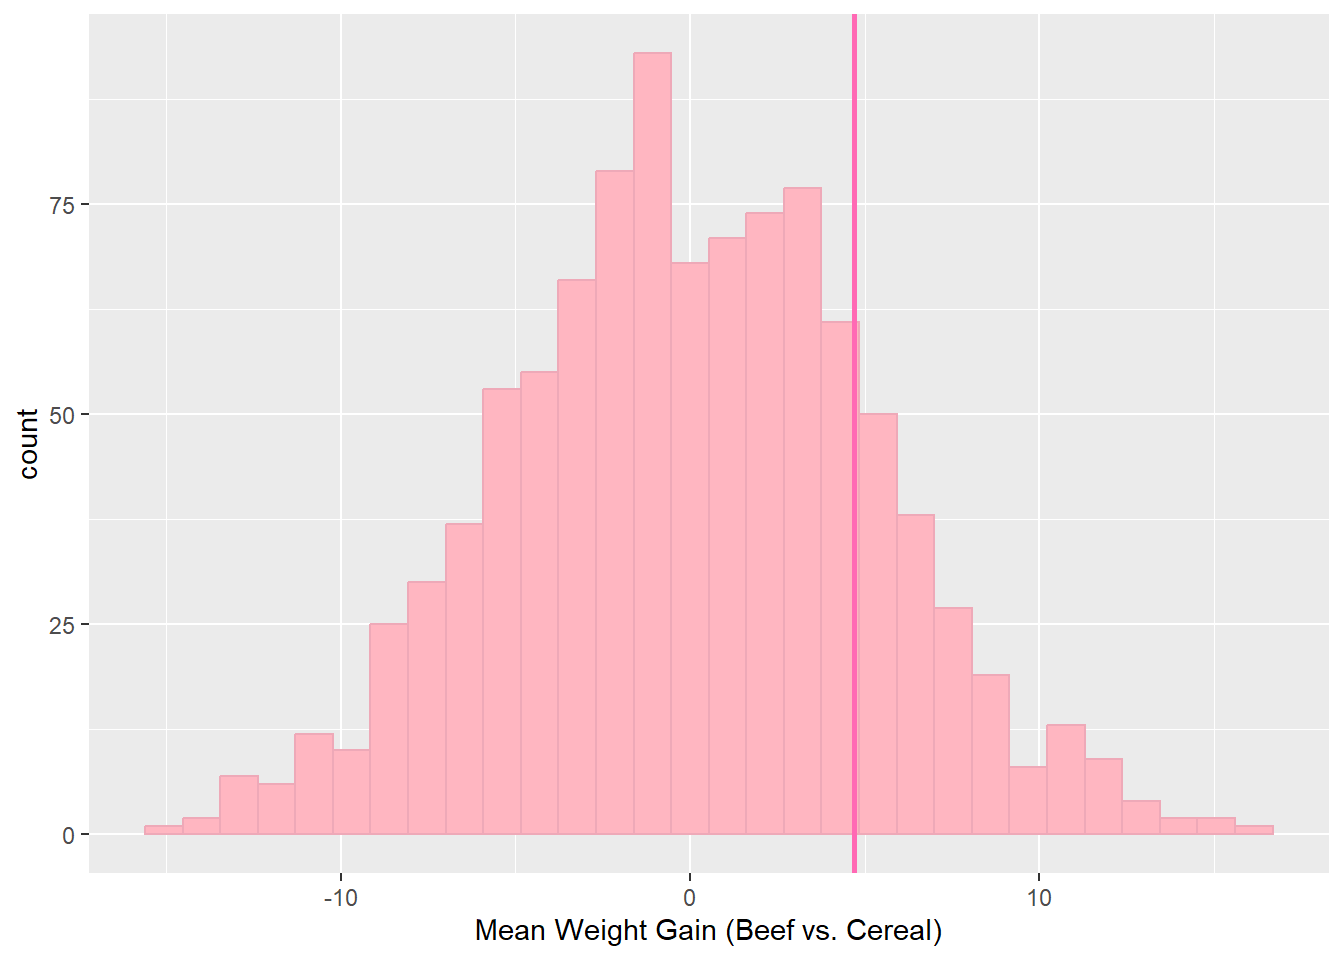
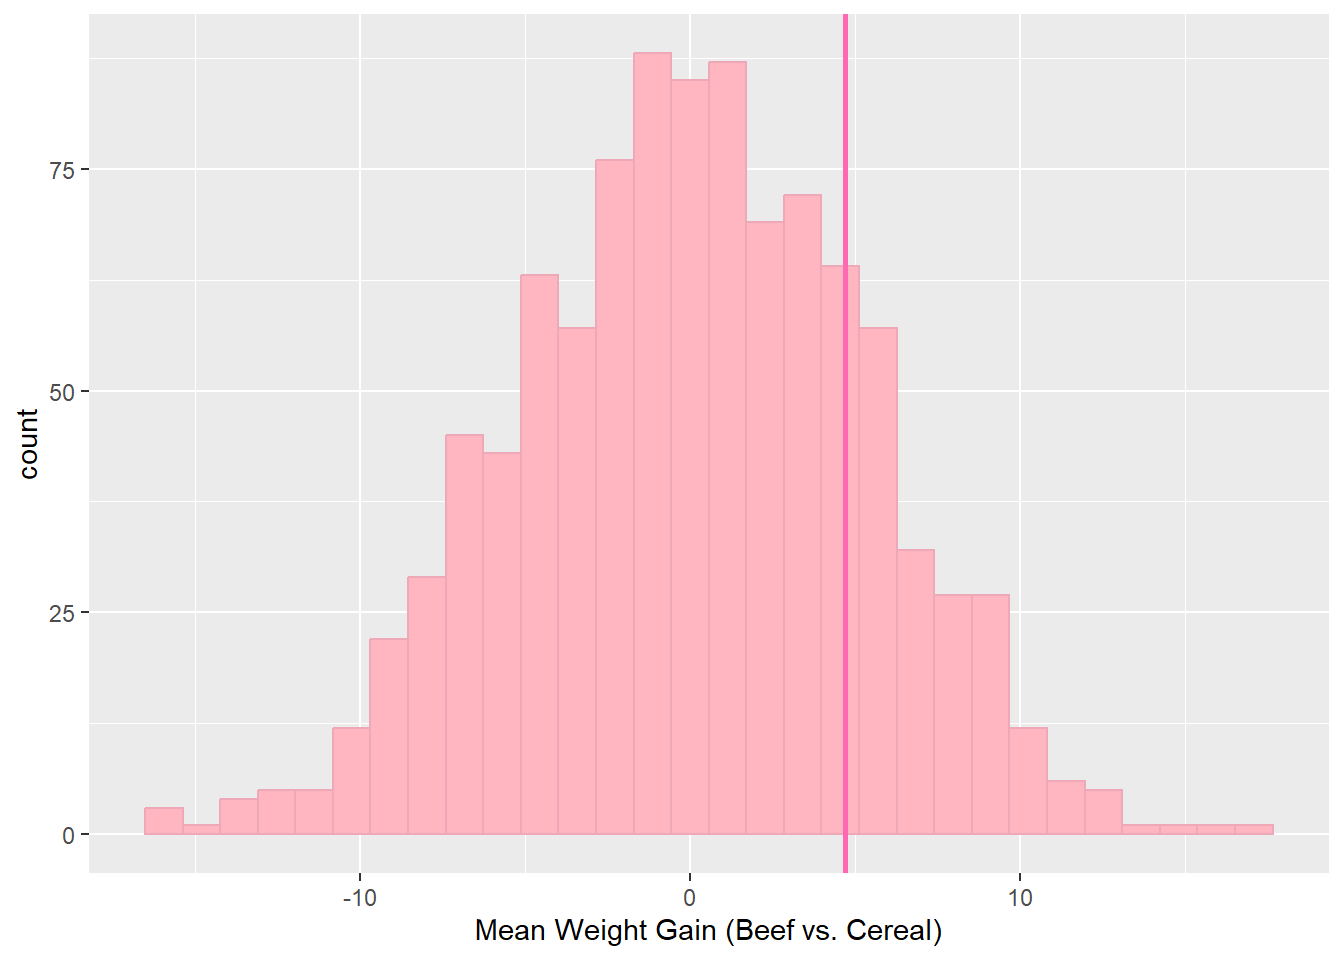
RATSSSS

diff --git a/docs/mini_project2.html b/docs/mini_project2.html
@@ -124,7 +124,7 @@ ul.task-list li input[type="checkbox"] {
     <h2 id="toc-title">On this page</h2>
    
   <ul>
-  <li><a href="#fat-rats" id="toc-fat-rats" class="nav-link active" data-scroll-target="#fat-rats">Fat Rats! <img src="images/FP_5427726_BARM_Rats_071810.webp" class="img-fluid"></a></li>
+  <li><a href="#fat-rats" id="toc-fat-rats" class="nav-link active" data-scroll-target="#fat-rats">Fat Rats!</a></li>
   </ul>
 </nav>
     </div>
@@ -149,7 +149,8 @@ ul.task-list li input[type="checkbox"] {
 </header>
 
 <section id="fat-rats" class="level3">
-<h3 class="anchored" data-anchor-id="fat-rats">Fat Rats! <img src="images/FP_5427726_BARM_Rats_071810.webp" class="img-fluid"></h3>
+<h3 class="anchored" data-anchor-id="fat-rats">Fat Rats!</h3>
+<p><img src="images/FP_5427726_BARM_Rats_071810.webp" class="img-fluid"></p>
 <p>For this project, I examined the dataset FatRats, which has data from an experiment on the effects of diet on the weight gain of rats. The study had 60 baby rat participants, which were split up into groups and fed different sources of protein(Beef, Cereal, and Pork). The resulting dataset shows the weight gain for each rat from their protein source.</p>
 <p>I decided to conduct a randomization-type test by simulating the behavior under the null hypothesis. I wanted to see if the results of the study would be significant. I did this by running simulations of the study and randomizing the protein source to see if a random test would produce significantly different responses than the experiment did.</p>
 <p>The following graphs show the difference in average weight gains between different proteins with the randomized test, which shows what might happen if protein had no effect. The hot pink vertical line shows the average weight gain from the study that was run. The p-values below each chart show the probability under the null hypothesis(our randomized experiment) of obtaining a test statistic at least as extreme as the one obtained. The p-values are calculated by looking at how many of the randomized statistics are greater than or equal to the observed statistics from the rat study.</p>
@@ -158,19 +159,19 @@ ul.task-list li input[type="checkbox"] {
 <p><img src="mini_project2_files/figure-html/unnamed-chunk-3-1.png" class="img-fluid" width="672"></p>
 </div>
 <div class="cell-output cell-output-stdout">
-<pre><code>Beef vs. Pork p-value: 0.288 </code></pre>
+<pre><code>Beef vs. Pork p-value: 0.297 </code></pre>
 </div>
 <div class="cell-output-display">
 <p><img src="mini_project2_files/figure-html/unnamed-chunk-3-2.png" class="img-fluid" width="672"></p>
 </div>
 <div class="cell-output cell-output-stdout">
-<pre><code>Beef vs. Cereal p-value: 0.281 </code></pre>
+<pre><code>Beef vs. Cereal p-value: 0.307 </code></pre>
 </div>
 <div class="cell-output-display">
 <p><img src="mini_project2_files/figure-html/unnamed-chunk-3-3.png" class="img-fluid" width="672"></p>
 </div>
 <div class="cell-output cell-output-stdout">
-<pre><code>Pork vs. Cereal p-value: 0.279 </code></pre>
+<pre><code>Pork vs. Cereal p-value: 0.293 </code></pre>
 </div>
 </div>
 <p>As we can see, all of the p-values are close to 0.3. Generally, if the p-value is less than 0.05, we will consider the results of the study statistically significant. Because these results are well over the point of statistical significance, we can fail to reject the null hypothesis and claim that the difference in weight gains due to different proteins is not statistically significant.</p>
